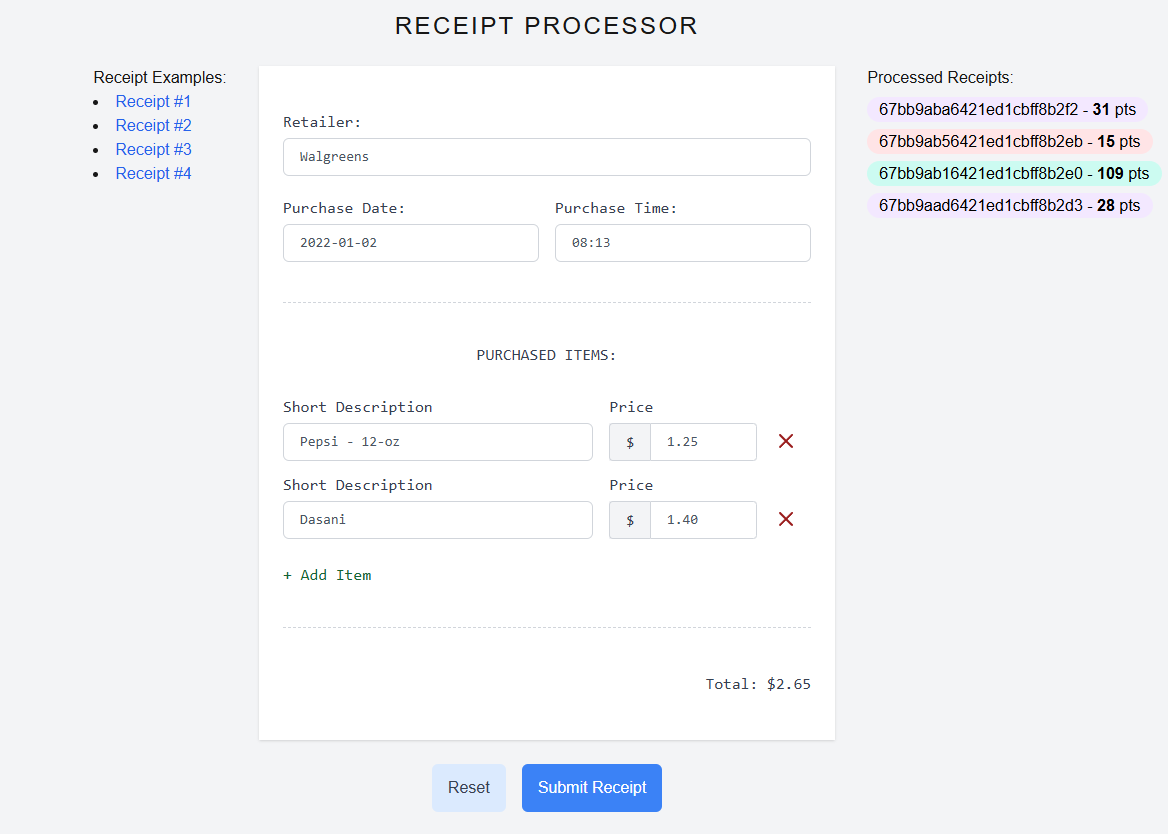
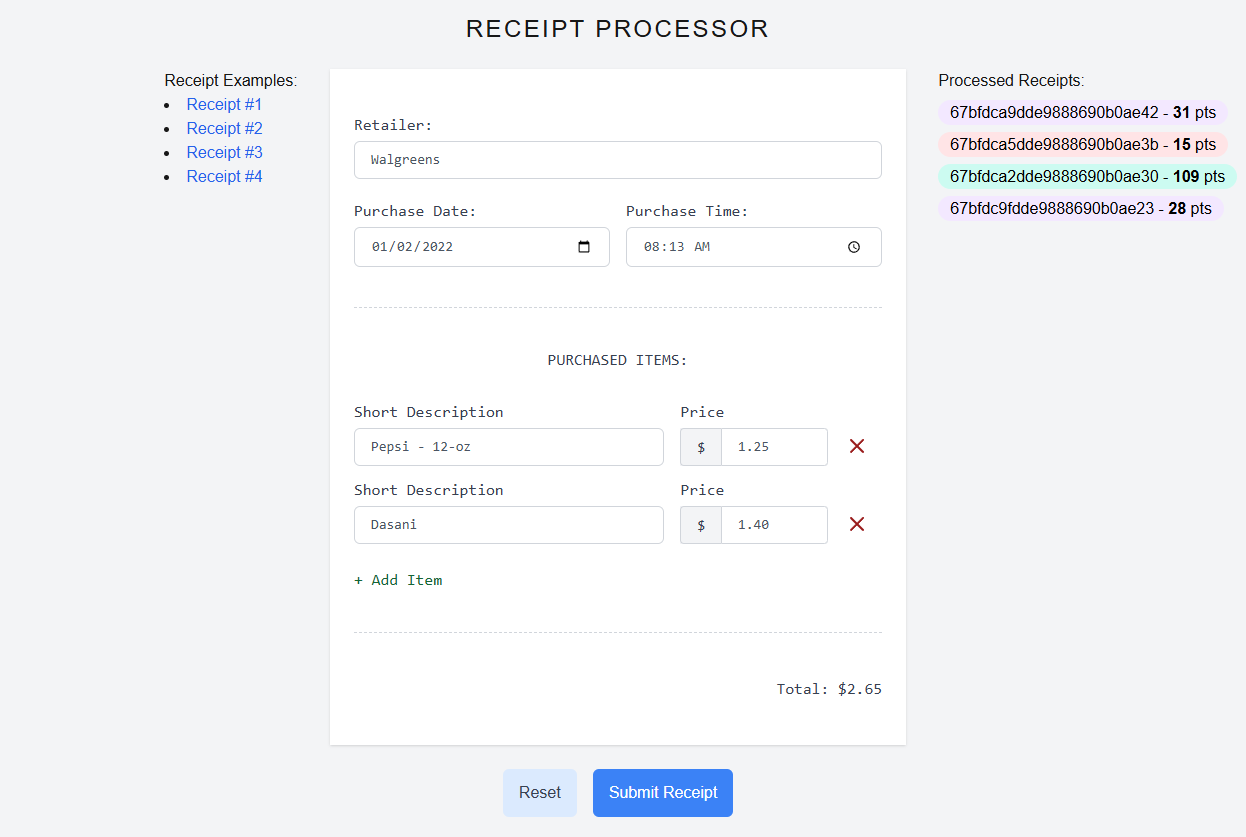
Update input fields attributes

diff --git a/app/ui/receipt-form.tsx b/app/ui/receipt-form.tsx
@@ -149,6 +149,7 @@ export function ReceiptForm() {
                     className="px-4 py-2 border focus:ring-gray-500 focus:border-gray-900 w-full sm:text-sm border-gray-300 rounded-md focus:outline-none text-gray-600"
                     onChange={handleChange}
                     autoFocus
+                    required
                   />
                 </div>
 
@@ -157,12 +158,13 @@ export function ReceiptForm() {
                     Purchase Date:
                   </label>
                   <input
-                    type="text"
+                    type="date"
                     id="purchaseDate"
                     name="purchaseDate"
                     value={receipt.purchaseDate}
                     className="px-4 py-2 border focus:ring-gray-500 focus:border-gray-900 w-full sm:text-sm border-gray-300 rounded-md focus:outline-none text-gray-600"
                     onChange={handleChange}
+                    required
                   />
                 </div>
                 <div className="">
@@ -170,12 +172,13 @@ export function ReceiptForm() {
                     Purchase Time:
                   </label>
                   <input
-                    type="text"
+                    type="time"
                     id="purchaseTime"
                     name="purchaseTime"
                     value={receipt.purchaseTime}
                     className="px-4 py-2 border focus:ring-gray-500 focus:border-gray-900 w-full sm:text-sm border-gray-300 rounded-md focus:outline-none text-gray-600"
                     onChange={handleChange}
+                    required
                   />
                 </div>
               </div>

diff --git a/app/ui/receipt-item-input.tsx b/app/ui/receipt-item-input.tsx
@@ -23,6 +23,7 @@ export function ReceiptItemInput({ index, item, onChange, onRemove, inputRef }: 
           value={item.shortDescription}
           className="border-gray-300 px-4 py-2 border  w-full rounded-md text-gray-600 sm:text-sm focus:ring-gray-500 focus:border-gray-900 focus:outline-none"
           onChange={(e) => onChange(index, "shortDescription", e.target.value)}
+          required
         />
       </div>
 
@@ -45,6 +46,7 @@ export function ReceiptItemInput({ index, item, onChange, onRemove, inputRef }: 
             value={item.price}
             className="border-gray-300 px-4 py-2 flex-shrink flex-grow leading-normal w-px rounded rounded-l-none border relative text-gray-600 sm:text-sm focus:ring-gray-500 focus:border-gray-900 focus:outline-none"
             onChange={(e) => onChange(index, "price", e.target.value)}
+            required
           />
         </div>
       </div>
